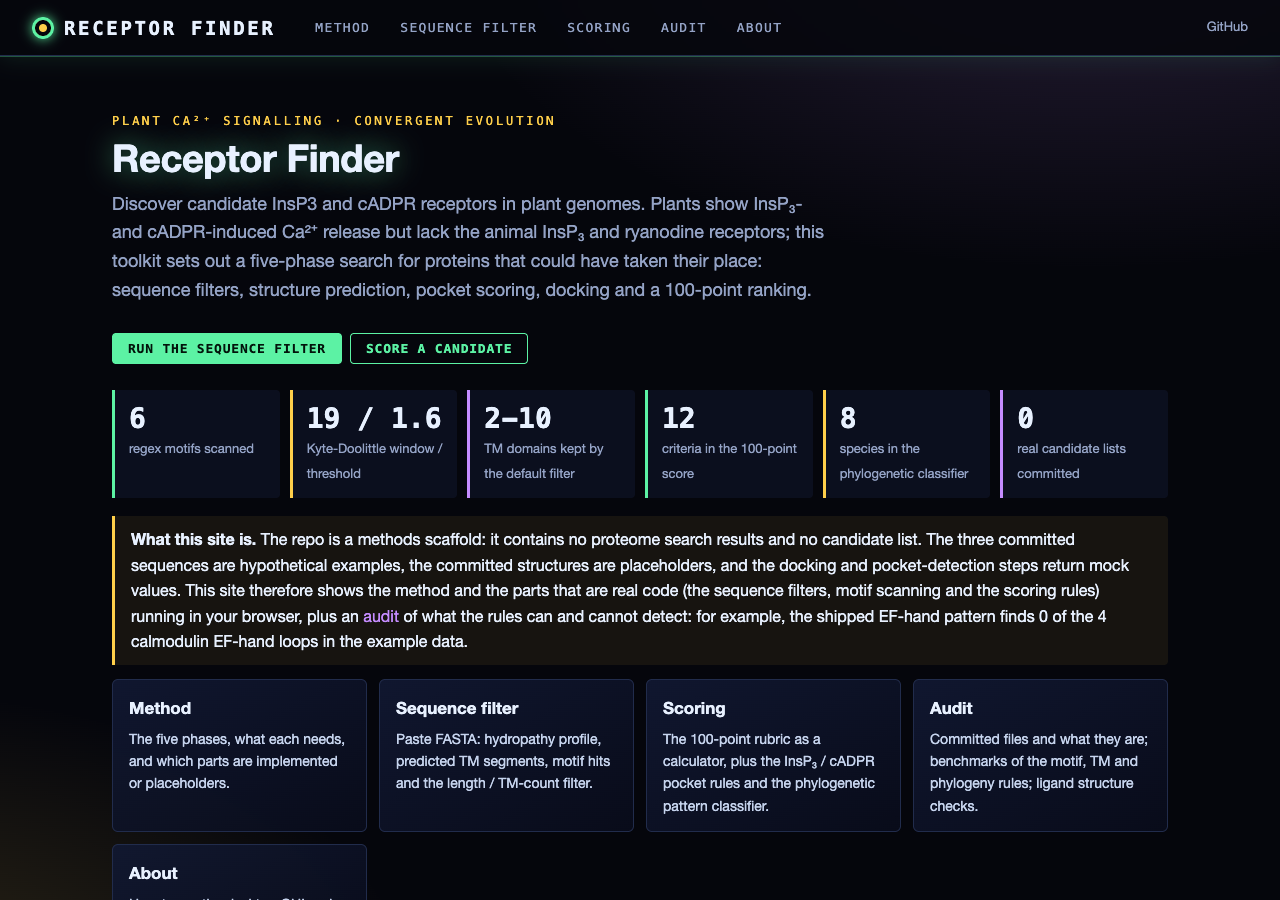
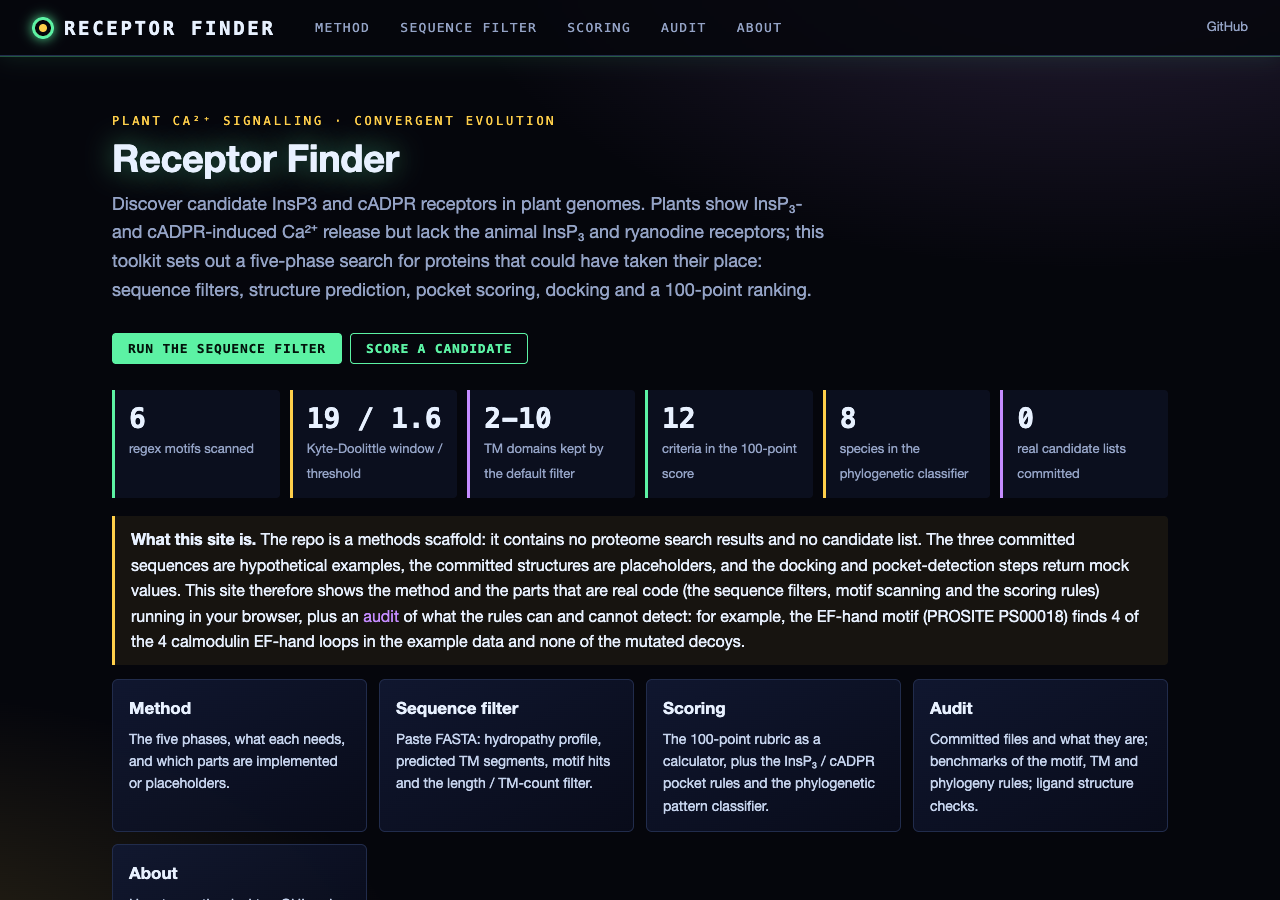
Update session log and README screenshots after the follow-up fixes

Changed region(s): [[0.0938, 0.6844, 0.5625, 0.7156], [0.625, 0.6533, 0.875, 0.7156]]

diff --git a/SESSION_LOG.md b/SESSION_LOG.md
@@ -20,13 +20,21 @@ Nothing here looks like an unpublished finding.
 - `score_localization('ER')` scored 0 instead of 9 (case mismatch).
 - `score_docking` slopes were reversed: -8.5 kcal/mol scored 10.75/10, weaker binders scored higher.
 
-**Needs George's decision** (benchmarks on the Audit page; code unchanged):
-- `MotifScanner.MOTIFS['EF_hand']` (`D.{2}[DNS]...[DNS].{2}[EQ]`) matches 0 of the 4 calmodulin EF-hand loops in
-  AT2G23456. A canonical alternative is PROSITE PS00018.
-- TM prediction needs 15 consecutive windows above threshold: the shortest poly-Leu stretch called is 23 residues, so
-  real TM helices (~20 residues) are often missed; the "multi-pass" example gets 1 segment.
-- `classify_distribution` can only return Chlamydomonas_loss, Conserved or Sporadic (the other branches are
-  unreachable); a family absent everywhere is "Sporadic".
-- `LigandLibrary` SMILES: InsP3/InsP4 are pyranose sugars with 4/5 phosphates, cADPR and 8-NH2-cADPR contain cytosine,
-  NAADP has a nitro group and 2 phosphates.
-- `src/scoring.py` (569 lines) and `src/gui_app.py` (1178) are over the 500-line budget (pre-existing).
+**Follow-up the same day (lead, under George's "fix any other problems" rule).** The five open items were fixed, each
+in its own "Fix ..." commit with tests and sources in THIRD_PARTY.md:
+- EF_hand is now PROSITE PS00018, copied from the entry. It finds all 4 calmodulin loops and rejects their D1A mutants.
+- TM prediction uses the standard Kyte & Doolittle (1982) rule (window 19, mean >= 1.6;
+  doi:10.1016/0022-2836(82)90515-0). `min_windows` and `merge_gap` are configurable. On UniProt-annotated proteins it
+  finds 13/16 helices (the old rule found 1/16) and nothing in calmodulin or myoglobin. Its one extra call is the
+  glycophorin A signal peptide.
+- `classify_distribution` follows docs/in_silico_calcium_projects.md section 3.1 and can return all 7 patterns. The
+  old "Chlamydomonas_loss" went to families absent from the alga, the opposite of the documented definition.
+- Ligand SMILES are PubChem isomeric SMILES (CIDs 439456, 107758, 123847, 123952, 5892), fetched once on 2026-11-12.
+  8-NH2-cADPR is derived from cADPR, because PubChem's only record for it (CID 135600320) is not cyclic.
+- scoring.py was split into scoring.py + scorers.py, and gui_app.py into gui_app.py + 3 mixins (no behaviour change).
+
+**Still for George:**
+- Confirm the derived 8-NH2-cADPR structure.
+- PROSITE is CC BY-NC-ND 4.0 while this repo is MIT; only the attributed pattern string is reproduced.
+- Pattern, TM and docking-score results all changed with these fixes. Nothing downstream is committed, so no stored
+  result is affected.
